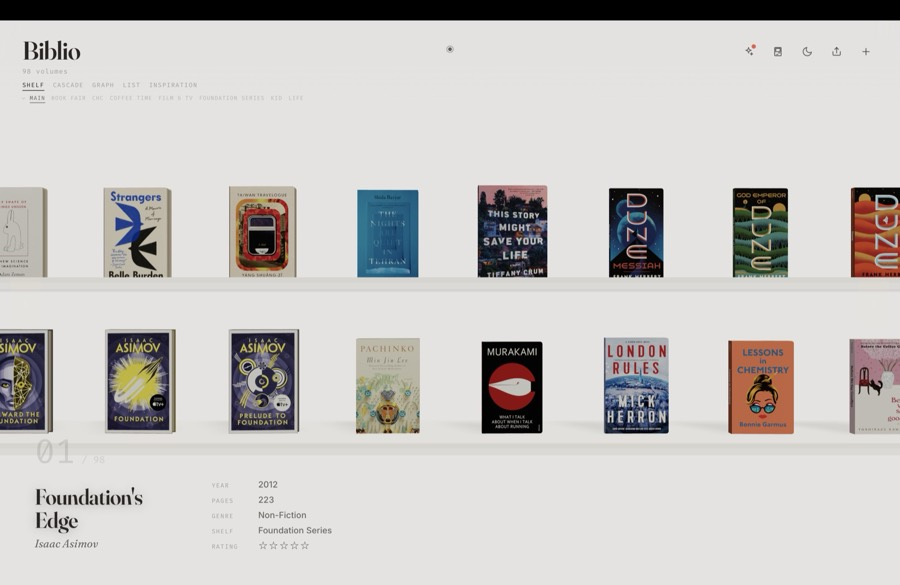
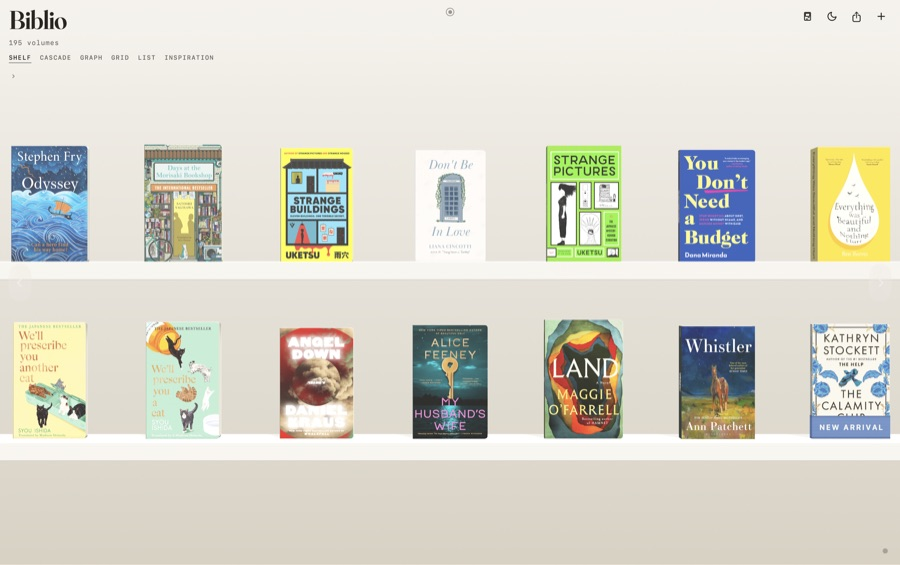
New Biblio screenshot, and stop the feature card squeezing it
Replaces the Biblio shot with the shelf view from 25 Aug. 1600x1004
at 224KB with a 900px variant at 91KB; the markup's width/height now
match so the layout does not shift while it loads.

Sizing the featured shot from the row height cropped it to whatever
shape the text column happened to make — 22% of this image was being
cut off the sides. It now takes its width from its column and its
height from its own ratio, so nothing is cropped at 1280px and up.

Side by side below about 1150px squeezes it again (a third gone at
940px), so the featured card stacks before that rather than after,
and the image keeps its proportions all the way down.

diff --git a/index.html b/index.html
@@ -129,12 +129,19 @@
      and spills out of its column — 625px inside a 470px column, right
      over the text. Fill the grid area instead and let object-fit do
      the cropping. */
+  /* Sized by its column, with its own aspect ratio deciding the
+     height. Stretching it to the row height was what drove the width
+     out of the column and over the text; letting it size from the
+     width fixes that and stops the screenshot being cropped to a
+     shape it was never composed for. */
   .v2-proj-feature .v2-proj-shot {
     border-radius: 0;
+    align-self: stretch;
+    width: 100%; height: 100%;
     aspect-ratio: auto;
-    width: 100%; height: 100%; min-height: 320px;
   }
-  .v2-proj-feature .v2-proj-body { padding: 2.4rem 2.6rem; justify-content: center; }
+  .v2-proj-feature .v2-proj-shot img { object-position: center top; }
+  .v2-proj-feature .v2-proj-body { padding: 2rem 2.4rem; justify-content: center; }
   .v2-proj-feature h3 { font-size: 1.55rem; }
 
   .v2-proj-shot { position: relative; overflow: hidden; aspect-ratio: 16 / 10; background: #fff; }
@@ -203,6 +210,15 @@
   }
   .v2-proj-lite p { font-size: .87rem; margin: .35rem 0 .6rem; }
 
+  /* Side by side, the row height comes from the text column, and
+     below about 1150px that squeezes the screenshot into a shape it
+     was not composed for — a third of it cropped away at 940px.
+     Stack before that happens. */
+  @media (max-width: 1150px) {
+    .v2-proj-feature { grid-template-columns: 1fr; }
+    .v2-proj-feature .v2-proj-shot { aspect-ratio: 16 / 10; height: auto; }
+    .v2-proj-feature .v2-proj-body { padding: 1.6rem 1.7rem 1.9rem; }
+  }
   @media (max-width: 1050px) {
     .v2-proj-grid { grid-template-columns: 1fr 1fr; }
   }
@@ -811,7 +827,7 @@
 
     <a class="v2-proj v2-proj-feature" href="https://biblio.ink" target="_blank" rel="noopener">
       <div class="v2-proj-shot">
-        <img src="/assets/biblio-preview-900.jpg" srcset="/assets/biblio-preview-900.jpg 900w, /assets/biblio-preview.jpg 1600w" sizes="(max-width: 900px) 92vw, 48vw" alt="The Biblio web app" width="1600" height="1040" loading="lazy" decoding="async">
+        <img src="/assets/biblio-preview-900.jpg" srcset="/assets/biblio-preview-900.jpg 900w, /assets/biblio-preview.jpg 1600w" sizes="(max-width: 900px) 92vw, 48vw" alt="The Biblio web app, showing a 3D bookshelf of covers" width="1600" height="1004" loading="lazy" decoding="async">
       </div>
       <div class="v2-proj-body">
         <span class="v2-proj-tag">Latest project</span>
